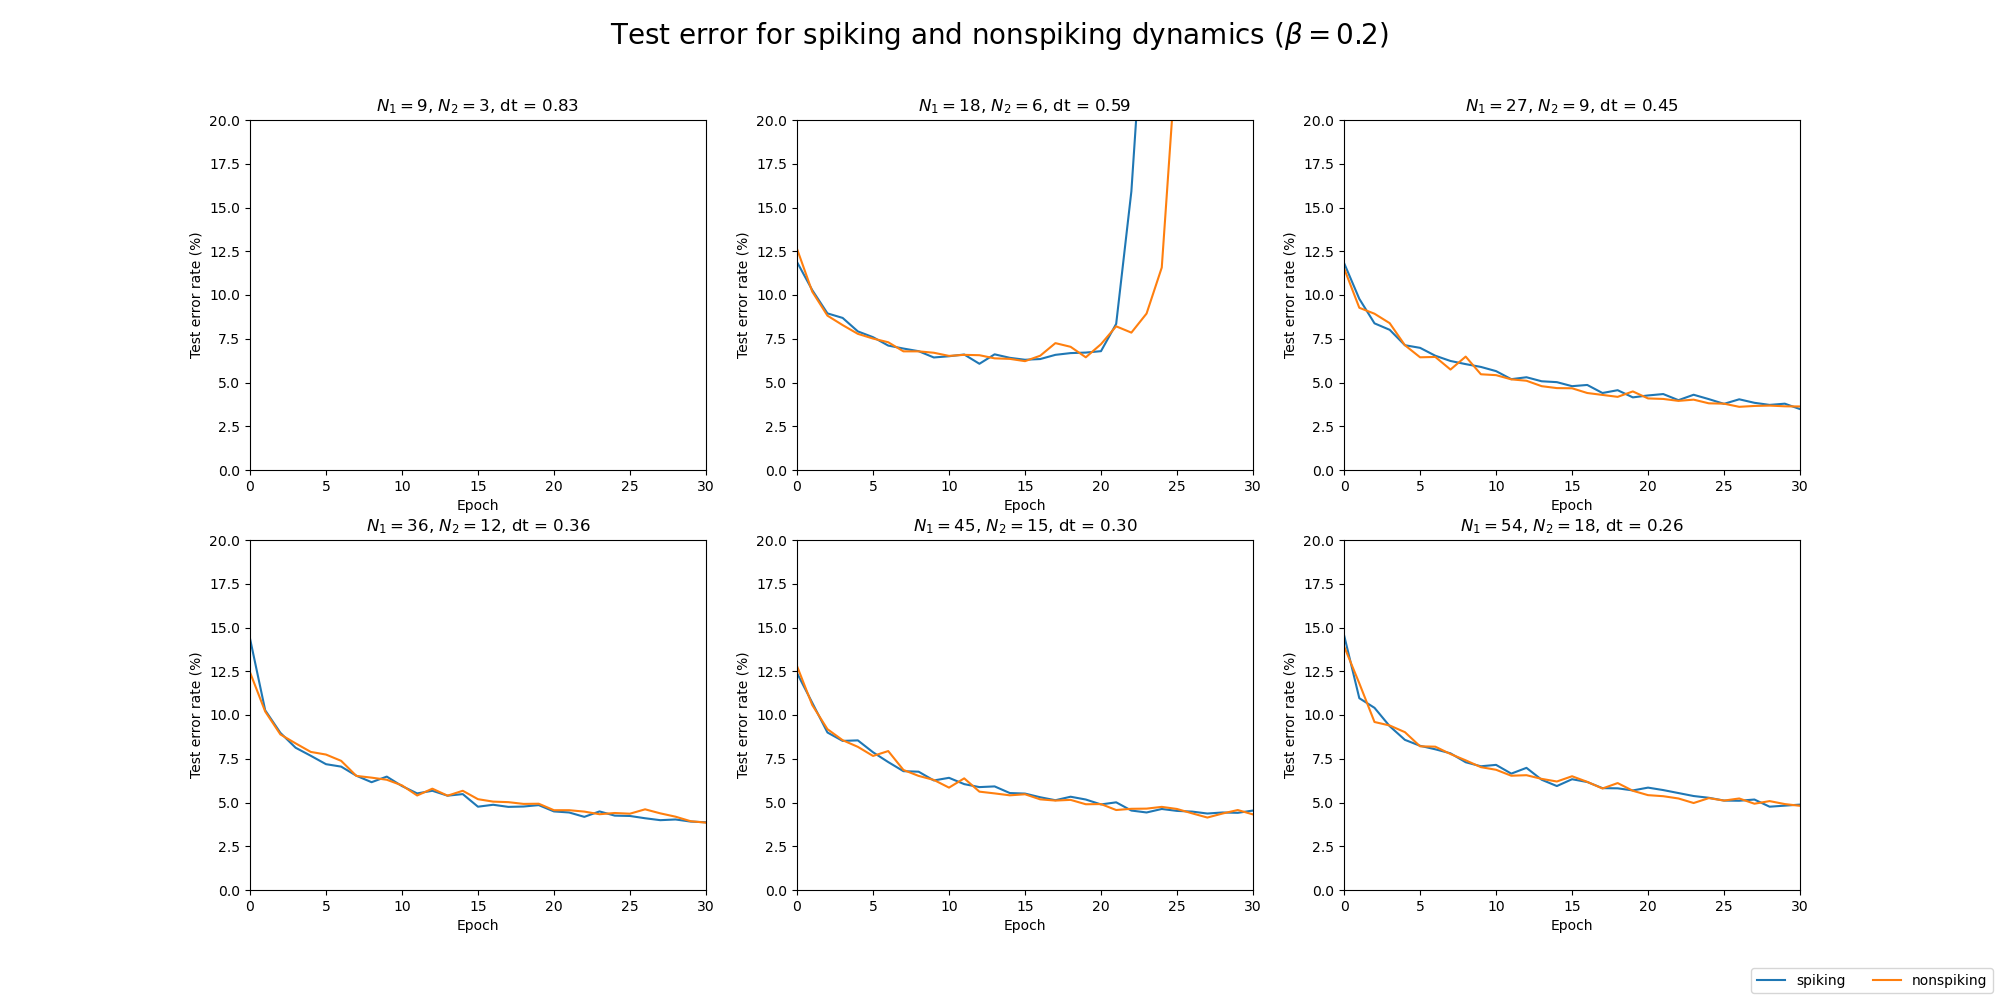
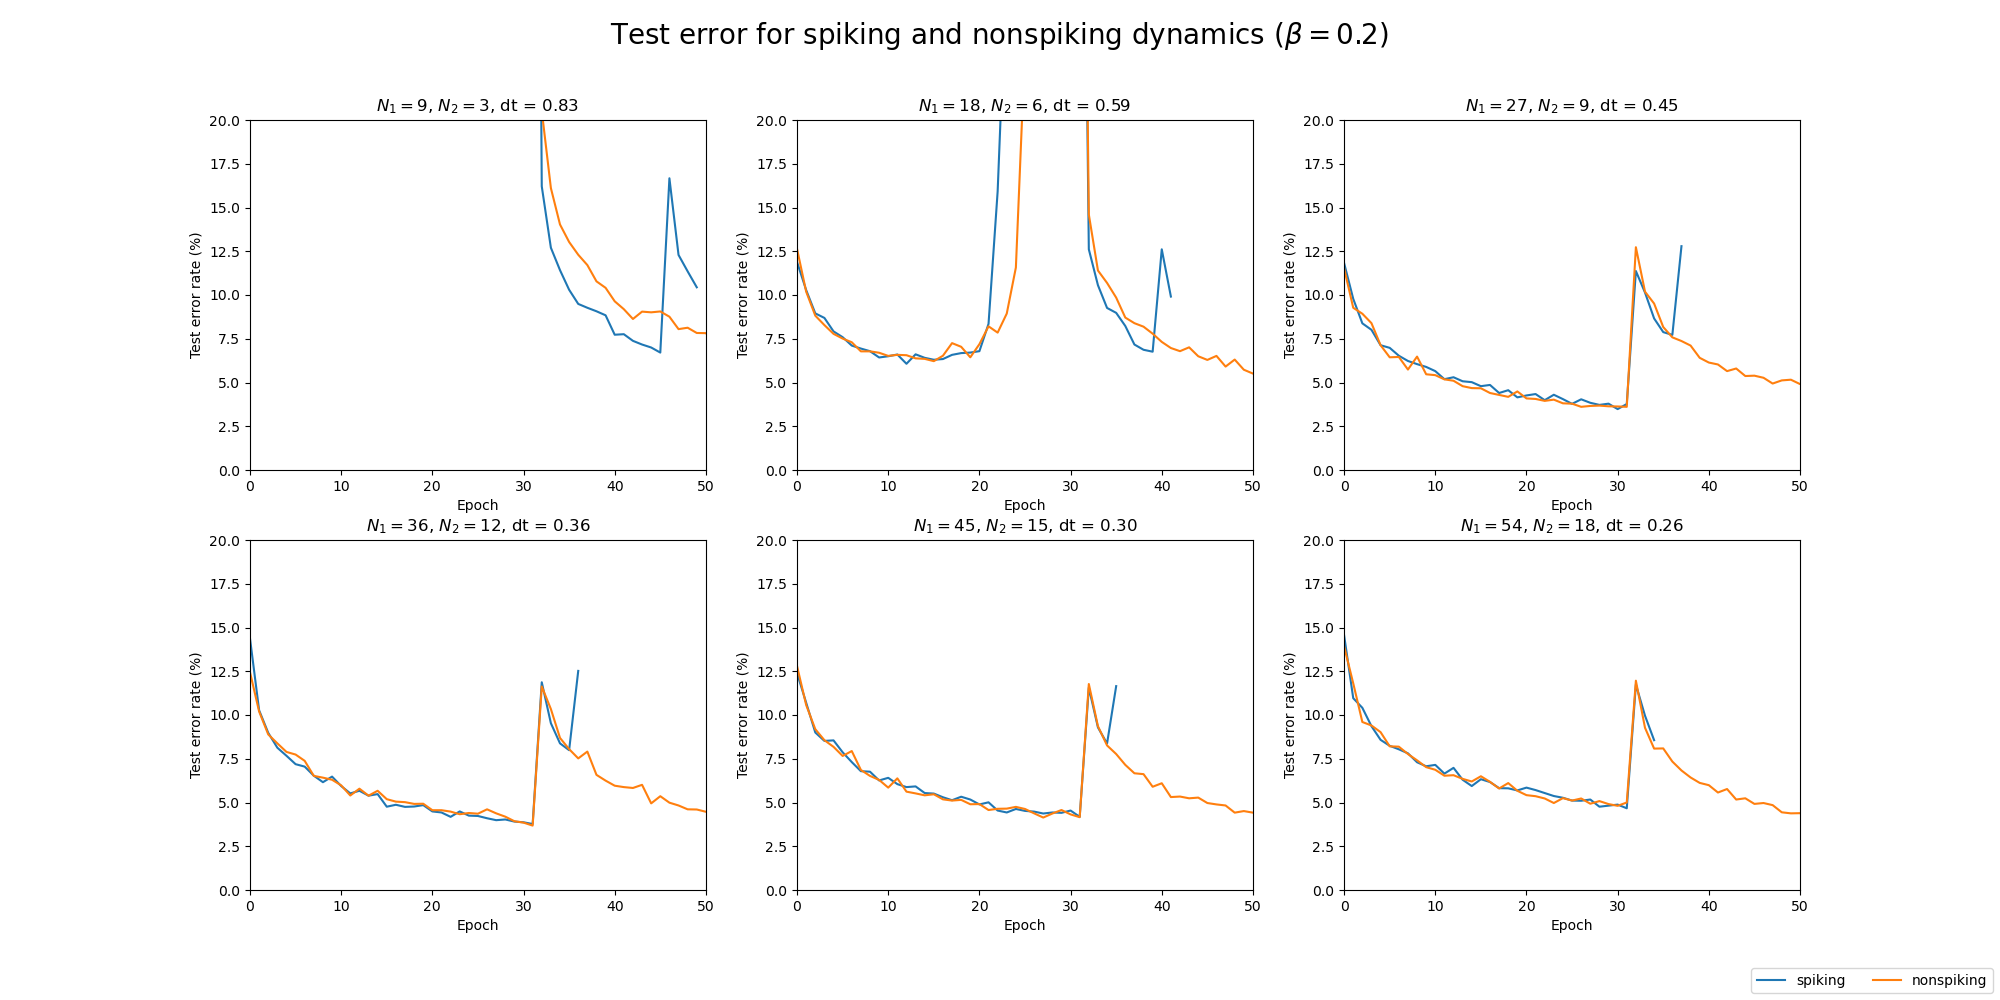
wip

diff --git a/graphUtil.py b/graphUtil.py
@@ -18,10 +18,10 @@ parser.add_argument(
 
 args = parser.parse_args()
 
-def csv2array(directory):
+def csv2array(directory,skiplines=2):
     with open(directory+'/results.csv','r',newline='') as csv_file:
         csv_reader = csv.reader(csv_file)
-        error = np.array(list(csv_reader)).astype('float')
+        error = np.array(list(csv_reader)[skiplines:]).astype('float')
         train_error,test_error = error[:,0],error[:,1]
     return train_error, test_error
 
@@ -94,7 +94,7 @@ for i in range(6):
     ax[i//3,i%3].plot(nonspiking_test_error)
     ax[i//3,i%3].set_xlabel('Epoch')
     ax[i//3,i%3].set_ylabel('Test error rate (%)')
-    ax[i//3,i%3].set_xlim([0,30])
+    ax[i//3,i%3].set_xlim([0,50])
     ax[i//3,i%3].set_ylim([0,20])
     ax[i//3,i%3].set_title(r'$N_1=$'+str(3*N2[i])+', $N_2=$'+str(N2[i])+', dt = '+'{:.2f}'.format(1-np.exp(-5.357/N2[i])))
 fig.suptitle(r"Test error for spiking and nonspiking dynamics ($\beta = 0.2$)",fontsize=20)
